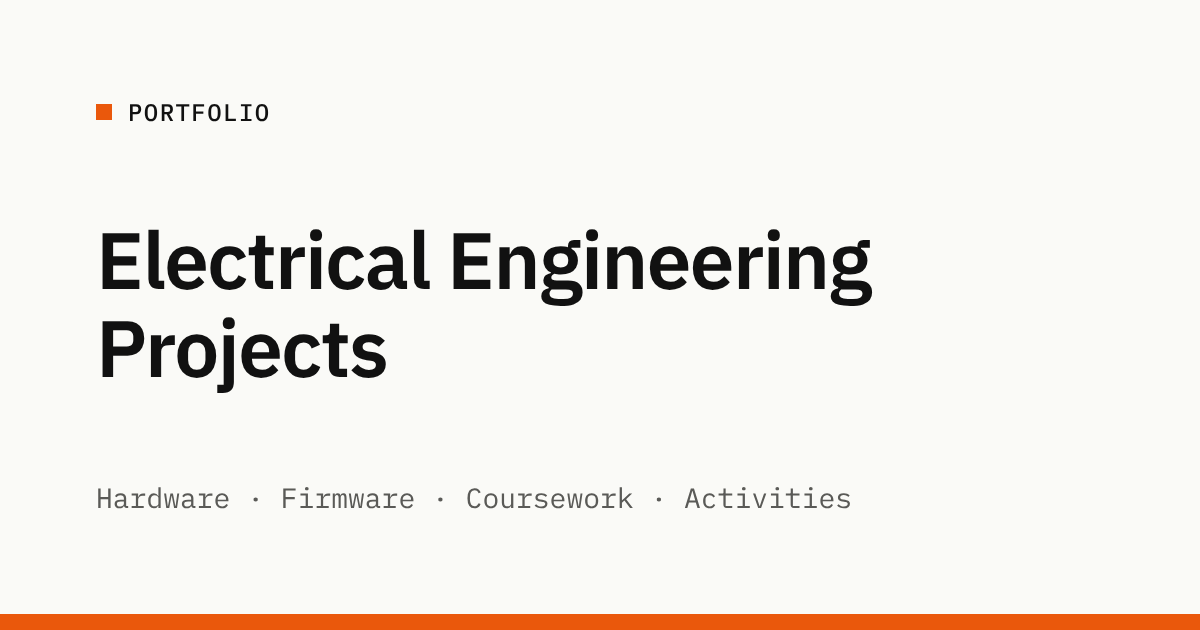
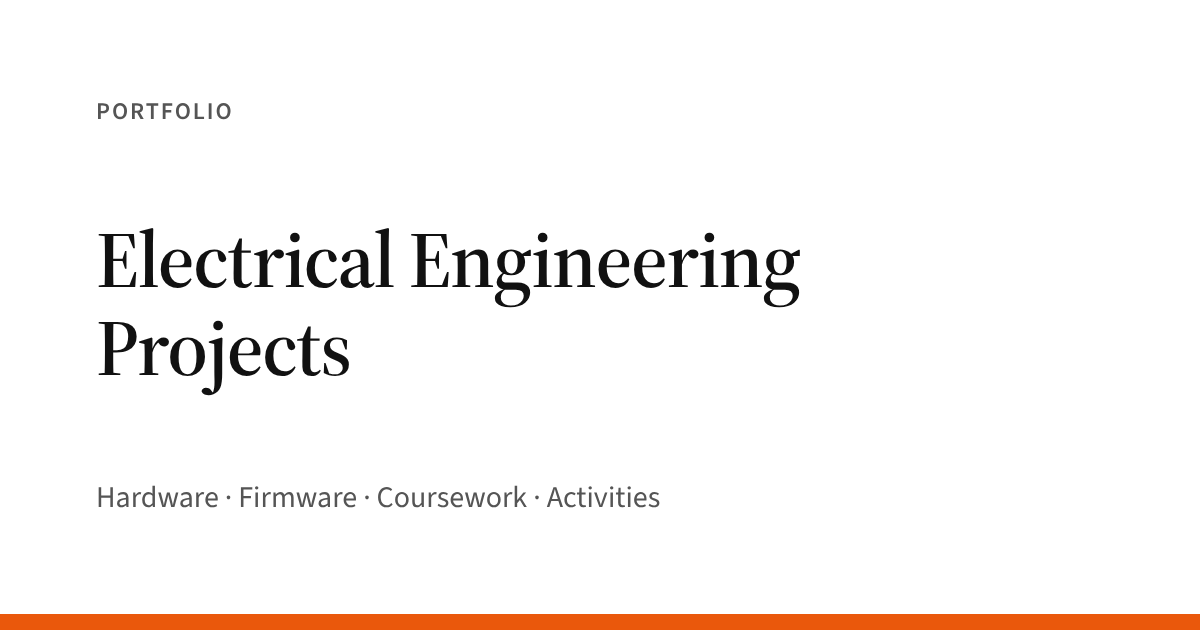
Use white background, Source Serif/Sans fonts, remove square markers
- Light theme only: pure white background; dark mode removed
- Headings in Source Serif 4, text and labels in Source Sans 3
  (monospace now only used for code)
- Removed the orange squares next to section labels and the status line
- Regenerated the share image to match

Claude-Session: https://claude.ai/code/session_01NuFFSmApdk2J76eGh2bMky

diff --git a/assets/css/main.css b/assets/css/main.css
@@ -4,18 +4,19 @@
    One radius, one border style, no drop shadows.
    ========================================================================== */
 :root {
-  --bg: #fafaf7;
+  --bg: #ffffff;
   --surface: #ffffff;
   --text: #111111;
-  --muted: #5a5a57;
-  --line: #e2e0da;
+  --muted: #555555;
+  --line: #e5e5e5;
   --line-strong: #111111;
-  --accent: #ea580c;        /* fills, markers, focus rings */
-  --accent-text: #b8410a;   /* orange text on light backgrounds (AA contrast) */
-  --placeholder: #ecebe6;
+  --accent: #ea580c;        /* underlines, focus rings */
+  --accent-text: #b8410a;   /* orange text on white (AA contrast) */
+  --placeholder: #f2f2f2;
 
-  --font-sans: "IBM Plex Sans", system-ui, -apple-system, "Segoe UI", sans-serif;
-  --font-mono: "IBM Plex Mono", ui-monospace, SFMono-Regular, Menlo, Consolas, monospace;
+  --font-serif: "Source Serif 4", Georgia, "Times New Roman", serif;   /* headings */
+  --font-sans: "Source Sans 3", -apple-system, "Segoe UI", Helvetica, Arial, sans-serif;  /* text, labels */
+  --font-mono: ui-monospace, SFMono-Regular, Menlo, Consolas, monospace;  /* code only */
 
   --s-1: 4px;
   --s0: 8px;
@@ -32,20 +33,6 @@
   --label-col: 200px;
   --header-h: 64px;
   --ease: 150ms ease;
-}
-
-@media (prefers-color-scheme: dark) {
-  :root {
-    --bg: #111111;
-    --surface: #171717;
-    --text: #ededea;
-    --muted: #a3a29d;
-    --line: #2b2b29;
-    --line-strong: #ededea;
-    --accent: #f97316;
-    --accent-text: #fb8a3c;
-    --placeholder: #1e1e1c;
-  }
 }
 
 @media (min-width: 640px) { :root { --gutter: 24px; } }
@@ -74,14 +61,14 @@ body {
   background: var(--bg);
   color: var(--text);
   font-family: var(--font-sans);
-  font-size: 1rem;
-  line-height: 1.5;
+  font-size: 1.0625rem;
+  line-height: 1.625rem;
   font-weight: 400;
   -webkit-font-smoothing: antialiased;
   text-rendering: optimizeLegibility;
 }
 
-h1, h2, h3, h4 { margin: 0; font-weight: 600; letter-spacing: -0.01em; }
+h1, h2, h3, h4 { margin: 0; font-family: var(--font-serif); font-weight: 600; letter-spacing: -0.005em; }
 p, ul, ol, dl, dd, figure { margin: 0; }
 ul, ol { padding: 0; }
 img, svg { display: block; max-width: 100%; }
@@ -111,8 +98,8 @@ main:focus { outline: none; }
 .muted { color: var(--muted); }
 
 .eyebrow {
-  font-family: var(--font-mono);
-  font-size: 0.8125rem;
+  font-family: var(--font-sans);
+  font-size: 0.875rem;
   line-height: 1.5rem;
   color: var(--muted);
 }
@@ -166,8 +153,8 @@ main:focus { outline: none; }
   list-style: none;
 }
 .site-nav a {
-  font-family: var(--font-mono);
-  font-size: 0.8125rem;
+  font-family: var(--font-sans);
+  font-size: 0.875rem;
   line-height: 1.5rem;
   color: var(--muted);
   text-decoration: none;
@@ -188,8 +175,8 @@ main:focus { outline: none; }
   display: inline-flex;
   align-items: center;
   gap: 6px;
-  font-family: var(--font-mono);
-  font-size: 0.875rem;
+  font-family: var(--font-sans);
+  font-size: 0.9375rem;
   line-height: 1.5rem;
   text-decoration: underline;
   text-decoration-color: var(--accent);
@@ -229,19 +216,10 @@ main:focus { outline: none; }
   .hero__intro { font-size: 1.25rem; line-height: 2rem; }
 }
 .hero__status {
-  display: flex;
-  align-items: center;
-  gap: var(--s0);
   margin-top: var(--s2);
-  font-family: var(--font-mono);
-  font-size: 0.8125rem;
+  font-family: var(--font-sans);
+  font-size: 0.875rem;
   line-height: 1.5rem;
-}
-.dot {
-  width: 8px;
-  height: 8px;
-  flex: none;
-  background: var(--accent);
 }
 .hero .link-list { margin-top: var(--s3); }
 
@@ -273,23 +251,13 @@ main:focus { outline: none; }
 }
 
 .section__label {
-  display: flex;
-  align-items: center;
-  gap: var(--s0);
   align-self: start;
-  font-family: var(--font-mono);
+  font-family: var(--font-sans);
   font-size: 0.8125rem;
   line-height: 1.5rem;
-  font-weight: 500;
-  letter-spacing: 0.06em;
+  font-weight: 600;
+  letter-spacing: 0.08em;
   text-transform: uppercase;
-}
-h2.section__label::before {
-  content: "";
-  width: 8px;
-  height: 8px;
-  flex: none;
-  background: var(--accent);
 }
 .section__body { min-width: 0; }
 
@@ -366,9 +334,9 @@ h2.section__label::before {
   white-space: nowrap;
 }
 .prose th {
-  font-family: var(--font-mono);
-  font-size: 0.8125rem;
-  font-weight: 500;
+  font-family: var(--font-sans);
+  font-size: 0.875rem;
+  font-weight: 600;
   color: var(--muted);
   border-bottom-color: var(--line-strong);
 }
@@ -409,8 +377,8 @@ h2.section__label::before {
   .skills__row { grid-template-columns: 176px minmax(0, 1fr); gap: var(--s2); }
 }
 .skills dt {
-  font-family: var(--font-mono);
-  font-size: 0.8125rem;
+  font-family: var(--font-sans);
+  font-size: 0.875rem;
   line-height: 1.5rem;
   color: var(--muted);
 }
@@ -429,8 +397,8 @@ h2.section__label::before {
   padding: 2px var(--s0);
   border: 1px solid var(--line);
   border-radius: var(--radius);
-  font-family: var(--font-mono);
-  font-size: 0.75rem;
+  font-family: var(--font-sans);
+  font-size: 0.8125rem;
   line-height: 1.125rem;
   color: var(--muted);
   white-space: nowrap;
@@ -475,8 +443,8 @@ h2.section__label::before {
   padding: var(--s2);
 }
 .card__meta {
-  font-family: var(--font-mono);
-  font-size: 0.75rem;
+  font-family: var(--font-sans);
+  font-size: 0.8125rem;
   line-height: 1.5rem;
   color: var(--muted);
 }
@@ -513,18 +481,19 @@ h2.section__label::before {
   display: flex;
   flex-wrap: wrap;
   gap: 0 var(--s1);
-  font-family: var(--font-mono);
-  font-size: 0.8125rem;
+  font-family: var(--font-sans);
+  font-size: 0.875rem;
   line-height: 1.75rem;
   color: var(--muted);
 }
 @media (min-width: 640px) {
   .entry__aside { flex-direction: column; }
 }
-.entry__code { color: var(--text); font-weight: 500; }
+.entry__code { color: var(--text); font-weight: 600; }
 .entry__title { font-size: 1.125rem; line-height: 1.75rem; }
 .entry__org {
   display: block;
+  font-family: var(--font-sans);
   font-weight: 400;
   color: var(--muted);
 }
@@ -548,8 +517,8 @@ h2.section__label::before {
   align-items: center;
   gap: 6px;
   margin-top: var(--s1);
-  font-family: var(--font-mono);
-  font-size: 0.8125rem;
+  font-family: var(--font-sans);
+  font-size: 0.875rem;
   line-height: 1.5rem;
   text-decoration: underline;
   text-decoration-color: var(--accent);
@@ -566,8 +535,8 @@ h2.section__label::before {
   display: inline-flex;
   align-items: center;
   gap: var(--s0);
-  font-family: var(--font-mono);
-  font-size: 0.8125rem;
+  font-family: var(--font-sans);
+  font-size: 0.875rem;
   line-height: 1.5rem;
   color: var(--muted);
   text-decoration: none;
@@ -607,8 +576,8 @@ h2.section__label::before {
 .project__hero figcaption,
 .figure figcaption {
   margin-top: var(--s0);
-  font-family: var(--font-mono);
-  font-size: 0.8125rem;
+  font-family: var(--font-sans);
+  font-size: 0.875rem;
   line-height: 1.5rem;
   color: var(--muted);
 }
@@ -627,11 +596,11 @@ h2.section__label::before {
   .project__meta dl { grid-template-columns: repeat(2, minmax(0, 1fr)); }
 }
 .project__meta dt {
-  font-family: var(--font-mono);
-  font-size: 0.75rem;
+  font-family: var(--font-sans);
+  font-size: 0.8125rem;
   line-height: 1.5rem;
-  font-weight: 500;
-  letter-spacing: 0.06em;
+  font-weight: 600;
+  letter-spacing: 0.08em;
   text-transform: uppercase;
   color: var(--muted);
 }
@@ -698,8 +667,8 @@ h2.section__label::before {
   display: inline-flex;
   align-items: center;
   gap: var(--s0);
-  font-family: var(--font-mono);
-  font-size: 0.75rem;
+  font-family: var(--font-sans);
+  font-size: 0.8125rem;
   line-height: 1.5rem;
   color: var(--muted);
 }
@@ -721,8 +690,8 @@ h2.section__label::before {
 }
 .site-footer__copy,
 .site-footer__top {
-  font-family: var(--font-mono);
-  font-size: 0.8125rem;
+  font-family: var(--font-sans);
+  font-size: 0.875rem;
   line-height: 1.5rem;
   color: var(--muted);
 }
@@ -755,8 +724,8 @@ h2.section__label::before {
   color: var(--text);
   border: 1px solid var(--line);
   border-radius: var(--radius);
-  font-family: var(--font-mono);
-  font-size: 0.8125rem;
+  font-family: var(--font-sans);
+  font-size: 0.875rem;
   line-height: 1.5rem;
   cursor: pointer;
   transition: border-color var(--ease);
@@ -769,8 +738,8 @@ h2.section__label::before {
 }
 .lightbox__status,
 .lightbox__caption {
-  font-family: var(--font-mono);
-  font-size: 0.8125rem;
+  font-family: var(--font-sans);
+  font-size: 0.875rem;
   line-height: 1.5rem;
   color: var(--muted);
 }

diff --git a/tools/og-image.html b/tools/og-image.html
@@ -9,21 +9,19 @@
 <head>
 <meta charset="utf-8">
 <title>OG image source</title>
-<link rel="stylesheet" href="https://fonts.googleapis.com/css2?family=IBM+Plex+Mono:wght@400;500&family=IBM+Plex+Sans:wght@600&display=block">
+<link rel="stylesheet" href="https://fonts.googleapis.com/css2?family=Source+Sans+3:wght@400;600&family=Source+Serif+4:opsz,wght@8..60,600&display=block">
 <style>
   html, body { margin: 0; }
   body {
     width: 1200px; height: 630px; box-sizing: border-box;
-    padding: 96px; background: #fafaf7; color: #111111;
+    padding: 96px; background: #ffffff; color: #111111;
     display: flex; flex-direction: column; justify-content: space-between;
-    font-family: "IBM Plex Sans", system-ui, sans-serif;
+    font-family: "Source Sans 3", Helvetica, Arial, sans-serif;
     border-bottom: 16px solid #ea580c;
   }
-  .label { display: flex; align-items: center; gap: 16px;
-    font: 500 24px/32px "IBM Plex Mono", monospace; letter-spacing: .06em; text-transform: uppercase; }
-  .label::before { content: ""; width: 16px; height: 16px; background: #ea580c; }
-  h1 { margin: 0; font-size: 80px; line-height: 88px; font-weight: 600; letter-spacing: -0.02em; max-width: 900px; }
-  p { margin: 0; font: 400 28px/40px "IBM Plex Mono", monospace; color: #5a5a57; }
+  .label { font: 600 24px/32px "Source Sans 3", sans-serif; letter-spacing: .08em; text-transform: uppercase; color: #555555; }
+  h1 { margin: 0; font-family: "Source Serif 4", Georgia, serif; font-size: 80px; line-height: 88px; font-weight: 600; letter-spacing: -0.02em; max-width: 900px; }
+  p { margin: 0; font: 400 30px/40px "Source Sans 3", sans-serif; color: #555555; }
 </style>
 </head>
 <body>

diff --git a/_includes/head.html b/_includes/head.html
@@ -27,15 +27,14 @@
 <meta name="twitter:description" content="{{ page_description | escape }}">
 <meta name="twitter:image" content="{{ page_image }}">
 
-<meta name="color-scheme" content="light dark">
-<meta name="theme-color" content="#fafaf7" media="(prefers-color-scheme: light)">
-<meta name="theme-color" content="#111111" media="(prefers-color-scheme: dark)">
+<meta name="color-scheme" content="light">
+<meta name="theme-color" content="#ffffff">
 <link rel="icon" href="{{ '/assets/img/favicon.svg' | relative_url }}" type="image/svg+xml">
 <link rel="icon" href="{{ '/assets/img/favicon-32.png' | relative_url }}" type="image/png" sizes="32x32">
 <link rel="apple-touch-icon" href="{{ '/assets/img/apple-touch-icon.png' | relative_url }}">
 
 <link rel="preconnect" href="https://fonts.googleapis.com">
 <link rel="preconnect" href="https://fonts.gstatic.com" crossorigin>
-<link rel="stylesheet" href="https://fonts.googleapis.com/css2?family=IBM+Plex+Mono:wght@400;500&family=IBM+Plex+Sans:ital,wght@0,400;0,600;1,400&display=swap">
+<link rel="stylesheet" href="https://fonts.googleapis.com/css2?family=Source+Sans+3:ital,wght@0,400;0,600;1,400&family=Source+Serif+4:opsz,wght@8..60,600&display=swap">
 <link rel="stylesheet" href="{{ '/assets/css/main.css' | relative_url }}">
 <script src="{{ '/assets/js/main.js' | relative_url }}" defer></script>

diff --git a/README.md b/README.md
@@ -87,8 +87,8 @@ Then open http://localhost:4000/portfolio_website/. Restart the server after edi
 
 These are the rules the site follows. Keep them in mind when you extend it.
 
-- **Colour:** off-white and near-black, with orange as the only accent. Orange is used for small markers, link underlines, focus rings and hover states. Dark mode follows the visitor's system setting.
-- **Type:** IBM Plex Sans for text and IBM Plex Mono for labels and metadata. Headings use weight 600 and body text 400.
+- **Colour:** white background and near-black text, with orange as the only accent. Orange is used for link underlines, focus rings and hover states.
+- **Type:** Source Serif 4 for headings and Source Sans 3 for text and labels. Headings use weight 600 and body text 400.
 - **Spacing:** an 8px scale (`--s0` … `--s6` in `main.css`). Use these variables instead of new pixel values.
 - **Shape:** a single 4px radius everywhere, 1px borders, and no drop shadows.
 - **Motion:** hover states only change colour, over 150ms. Nothing moves or scales, and transitions are disabled for visitors who prefer reduced motion.
